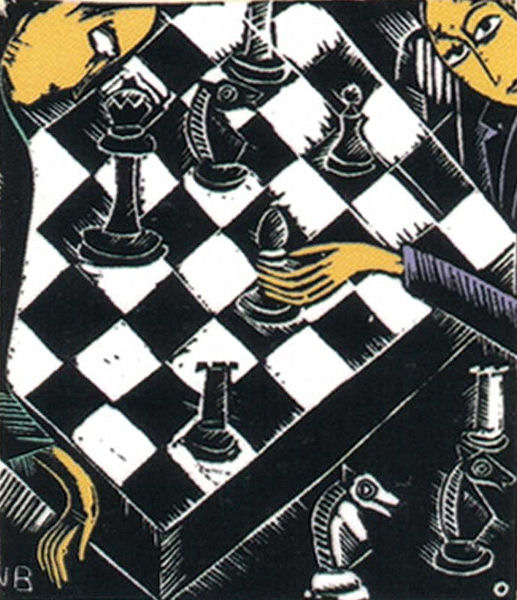
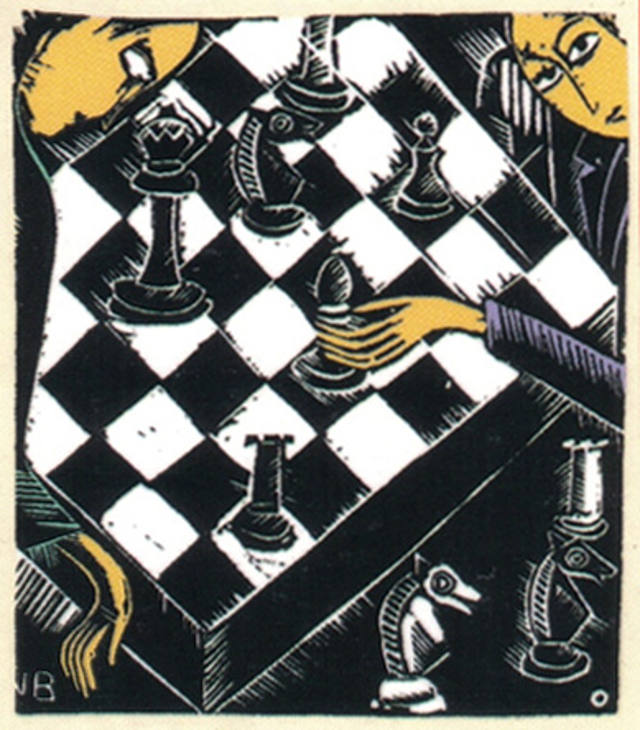
image resizing

diff --git a/_includes/image.html b/_includes/image.html
@@ -1,8 +1,8 @@
 {% if include.align  %}
- <div style="float: {{ include.align }}; padding-right: 10px; margin-top: -20px;" align="include.align">  
+ <div class="img-auto-sized" style="float: {{ include.align }}; padding-right: 10px; margin-top: -20px;" align="include.align">  
 {% else %} 
- <div style="float: right; padding-left: 10px; margin-top: -15px;" align="right">
+ <div class="img-auto-sized" style="float: right; padding-left: 10px; margin-top: -15px;" align="right">
 {% endif %}
-  <img src="{{ include.url }}" class="img-rounded" width="{{ include.width }}"/>
-  <p align="bottom"><i>{{ include.description }}</i></p>
+  <img src="{{ include.url }}" class="img-responsive"/>
+  <p align="left" style="text-align: left;"><i>{{ include.description }}</i></p>
  </div>

diff --git a/css/styles.css b/css/styles.css
@@ -85,3 +85,23 @@ footer {
 .main .page-header {
   margin-top: 0;
 } 
+
+/*
+  Image sizing
+*/
+
+.img-auto-sized {
+	max-width: 300px;
+}
+
+@media (min-width: 768px) {
+	.img-auto-sized {
+		max-width: 420px;
+	}
+}
+
+@media (min-width: 1200px) {
+	.img-auto-sized {
+		max-width: 640px;
+	}
+}

diff --git a/css/bootstrap.css b/css/bootstrap.css
@@ -896,7 +896,7 @@ html {
 }
 body {
   font-family: "Helvetica Neue", Helvetica, Arial, sans-serif;
-  font-size: 14px;
+  font-size: 16px;
   line-height: 1.42857143;
   color: #333;
   background-color: #fff;

diff --git a/contact.md b/contact.md
@@ -3,10 +3,9 @@ title: Contact us
 layout: default
 ---
 
+{% include image.html url="/assets/chessart/chess_rage_1462.jpg" description="The first ever depiction of chess rage? [Partie d'échecs dégénérant en assassinat](http://streathambrixtonchess.blogspot.com/2009/11/chess-in-art-postscript-chess-in_22.html), painted by the 15th century artist Renaut de Montauban." %}
+
 For general enquiries about membership, please contact Angus French by [email](mailto:angus@angusf.myzen.co.uk) or telephone (020 8677 2063), 
 or Richard Tillett by [email](mailto:tillett.richard@googlemail.com) or telephone (020 7228 1526).
 
 For enquiries about the White Lion Wednesday group please contact Richard Tillett.
-
-{% include image.html url="/assets/chessart/chess_rage_1462.jpg" width="352" description="The first ever depiction of chess rage? [Partie d'échecs dégénérant en assassinat](http://streathambrixtonchess.blogspot.com/2009/11/chess-in-art-postscript-chess-in_22.html), <br/> painted by the 15th century artist Renaut de Montauban." %}
-

diff --git a/about/central-london.md b/about/central-london.md
@@ -3,6 +3,8 @@ title: Chess in Central London
 layout: default
 ---
 
+{% include image.html url="/assets/photos/central-london.jpg" %}
+
 You don’t have to live in the Streatham area to play for us – many of our members live north of the river or outside 
 London. They prefer to play their team chess in Central London because of the convenient location and the high quality 
 that the [London Chess League](http://www.londonchess.org.uk/main.php) offers. In fact we play more league chess at 
@@ -13,5 +15,3 @@ an 10-board team in Division 3, and a 4-board team in the Minor division. Most m
 Lane Community Centre, which is located here on the Barbican estate.
 
 If you think you might like to play for us in the London Chess League, please contact one of our club officers.
-
-{% include image.html url="/assets/photos/central-london.jpg" width="352" description="One of the rapidplay tournaments we hold for members of our White Lion chess group." %}

diff --git a/about/whitelion.md b/about/whitelion.md
@@ -2,6 +2,7 @@
 title: Chess at the White Lion
 layout: default
 ---
+{% include image.html url="/assets/photos/wl-group-rapidplay.jpg" description="One of the rapidplay tournaments we hold for members of our White Lion chess group." %}
 
 You can play chess at the White Lion bar on Wednesday evenings throughout the year from 5.00 to 8.00 pm. 
 The White Lion is located [here](https://goo.gl/maps/rlRcp) at 232/234 Streatham High Road, SW16 1BB. We play in the main bar and also in 
@@ -14,5 +15,3 @@ Wednesday regulars also play for our league teams. There are rapidplay competiti
 take part in.
 
 Why not come along to one of our sessions – we’ll be delighted to see you. 
-
-{% include image.html url="/assets/photos/wl-group-rapidplay.jpg" width="352" description="One of the rapidplay tournaments we hold for members of our White Lion chess group." %}

diff --git a/join.md b/join.md
@@ -12,7 +12,7 @@ To play league chess you will also need to be a member of the English Chess Fede
 Bronze membership costs £12 for a year if you sign up online - see 
 [here](http://www.englishchess.org.uk/?page_id=20558) for further information.
 
-{% include image.html url="/assets/chessart/boileauchess.jpg" width="280" description="[Two men playing chess](http://streathambrixtonchess.blogspot.com/2008/08/chess-in-art-xi.html) – <br/> wood sculpture by the Canadian artist Alain Boileau. " %}
+{% include image.html url="/assets/chessart/boileauchess.jpg" description="[Two men playing chess](http://streathambrixtonchess.blogspot.com/2008/08/chess-in-art-xi.html) – wood sculpture by the Canadian artist Alain Boileau. " %}
 
 Subscription rates for the 2014-2015 season are:
 

diff --git a/index.md b/index.md
@@ -3,6 +3,8 @@ title: Welcome
 layout: default
 ---
 
+{% include image.html url="/assets/chessart/NorahBorges.jpg" description="Ajedrez, painted in 1922 by Norah Borges (1901-1998), sister of the writer Jorge Luis Borges" %}
+
 Welcome – you’ve arrived at Streatham & Brixton Chess Club’s website. 
 We hope you’ll take a few moments to find out more about us – we’re a lively chess club 
 with a fast-growing membership and we provide opportunities for chess players of all 
@@ -18,4 +20,4 @@ chess, you won't have to pay anything at all.
 
 <br/>
 
-{% include image.html url="/assets/chessart/NorahBorges.jpg" width="222" description="Ajedrez, painted in 1922 by Norah Borges (1901-1998), sister of the writer Jorge Luis Borges" %}
+

diff --git a/links.md b/links.md
@@ -3,7 +3,7 @@ title: Links
 layout: default
 ---
 
-{% include image.html url="/assets/chessart/lavery.jpg" width="420" description="[The Chess Players](http://streathambrixtonchess.blogspot.com/2008/10/chess-in-art-xx.html), painted by John Lavery in 1929." %}
+{% include image.html url="/assets/chessart/lavery.jpg" description="[The Chess Players](http://streathambrixtonchess.blogspot.com/2008/10/chess-in-art-xx.html), painted by John Lavery in 1929." %}
 
 [Streatham & Brixton Chess Blog](http://streathambrixtonchess.blogspot.com/)
 

diff --git a/about/woodfield-grove.md b/about/woodfield-grove.md
@@ -3,7 +3,7 @@ title: Chess at Woodfield Grove
 layout: default
 ---
 
-{% include image.html url="/assets/photos/woodfield.jpg" width="352" align="left" %}
+{% include image.html url="/assets/photos/woodfield.jpg" align="left" %}
 
 We get together at Woodfield Grove Tennis Club in Streatham on most Tuesday evenings during the chess season 
 (which runs from September through to May). 

diff --git a/about/index.md b/about/index.md
@@ -2,7 +2,7 @@
 title: About us
 layout: default
 ---
-{% include image.html url="/assets/chessart/graffiti-chess-one.jpg" width="300" %}
+{% include image.html url="/assets/chessart/graffiti-chess-one.jpg" %}
 
 Streatham & Brixton Chess Club goes back a long way. Our club was founded around 125 years ago and we are still flourishing today with more than 60 active members.
 
